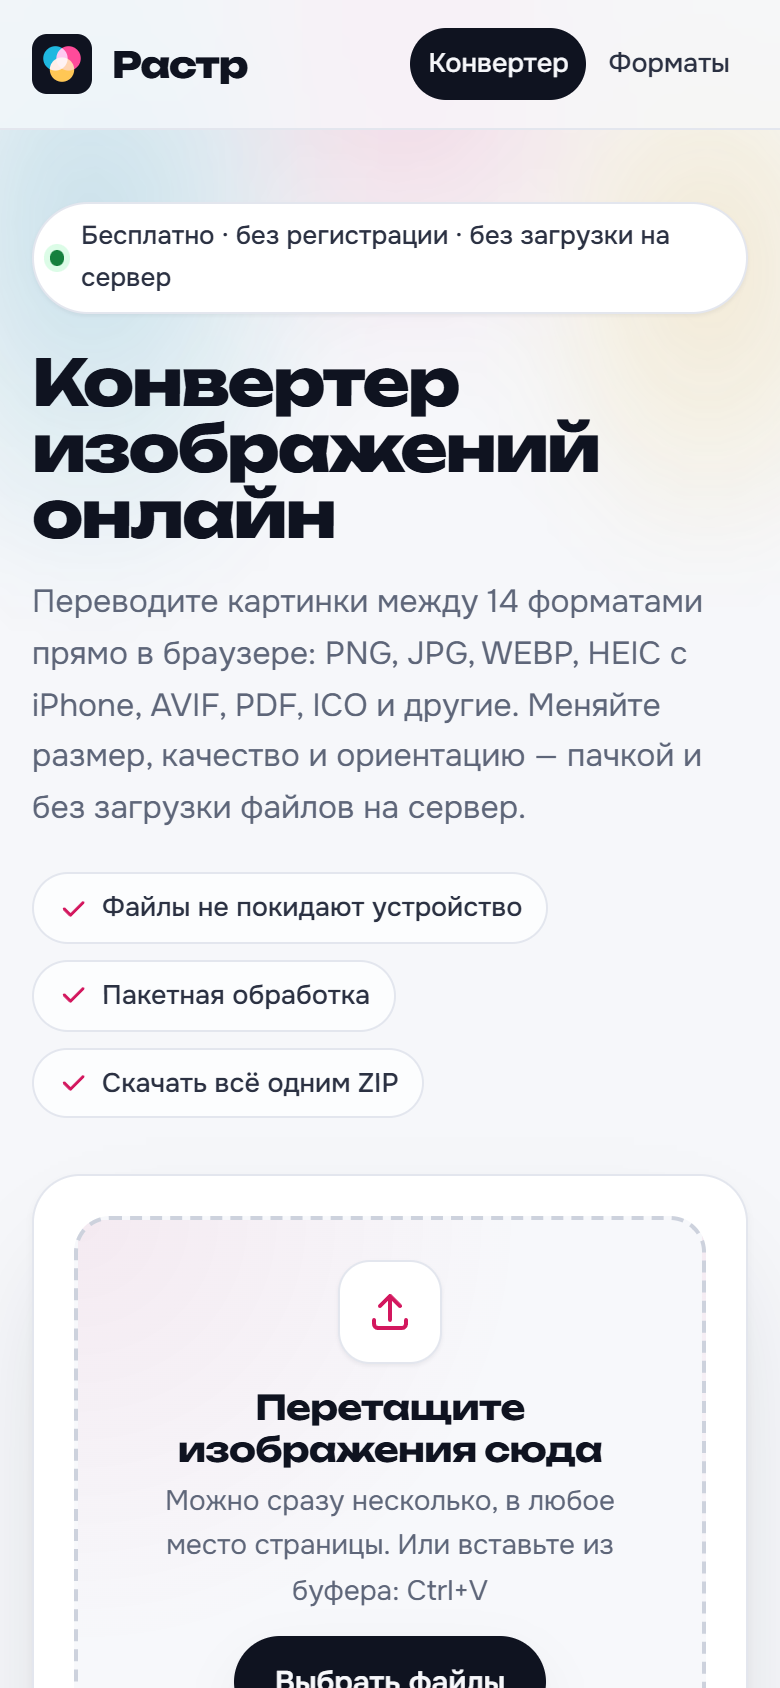
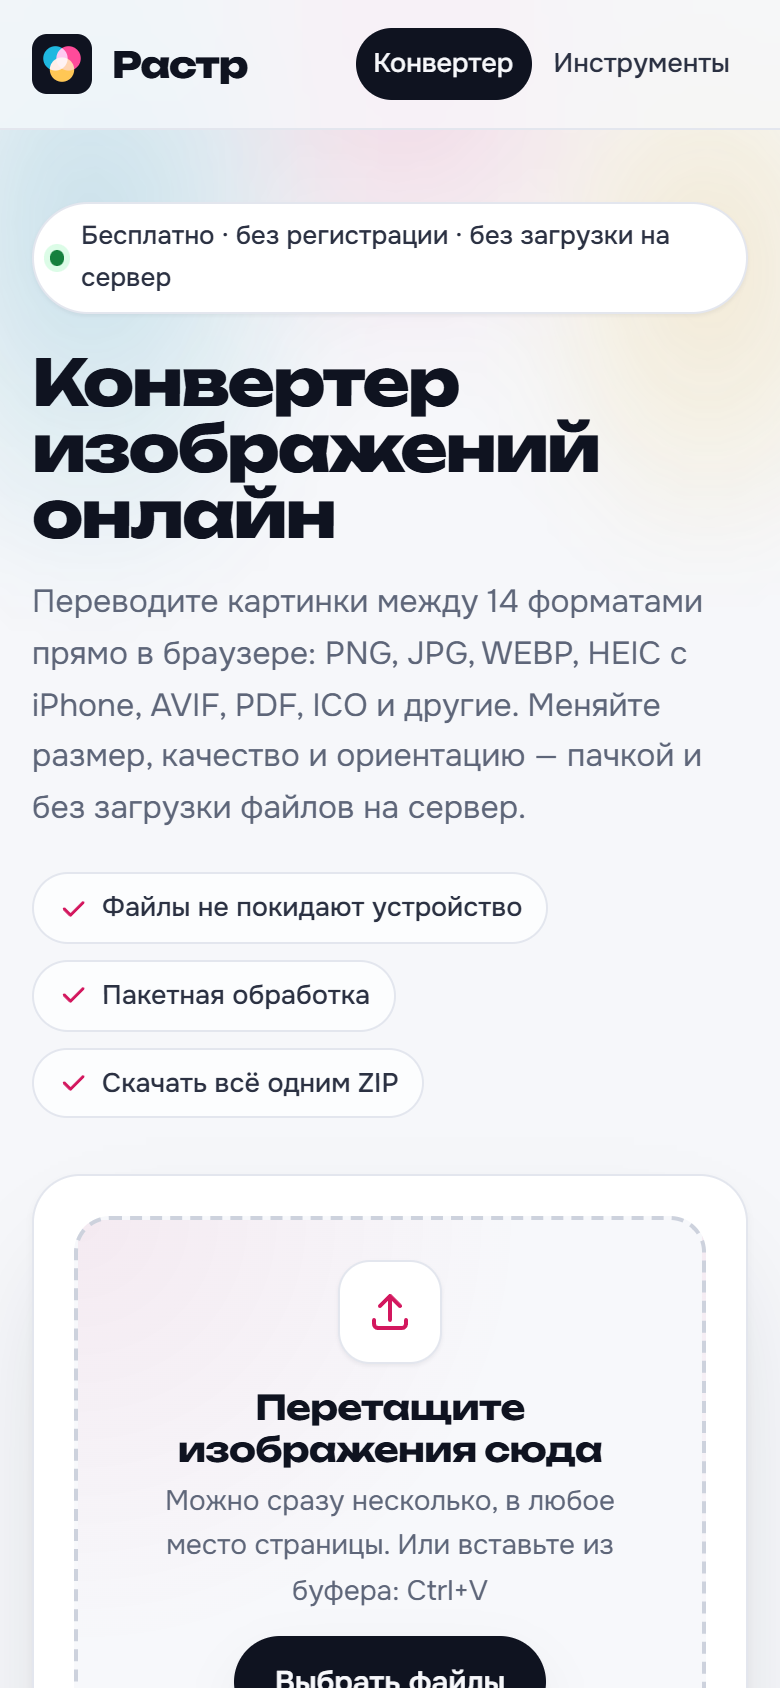
Раздел «Инструменты»: сжать фото, сжать до N КБ, размер фото
- Новая страница-раздел instrumenty с карточками инструментов, таблицей
  «какой инструмент выбрать», FAQ и разметкой ItemList; пункт меню,
  колонка в подвале, хлебные крошки Главная › Инструменты › …
- Главная: отдельные блоки «Инструменты для фото» и «Конвертеры форматов»
- Инструменты открываются как самостоятельные сервисы: только подходящие
  форматы, кнопка по действию, свои настройки первыми; в «Сжать до N КБ»
  лимит включён всегда, в «Размере фото» — формат «Как было»
- На страницах инструментов блоки «Другие инструменты» и конвертеры
- Тесты: формат «Как было», режим инструментов, порядок настроек

Changed region(s): [[0.4615, 0.0, 0.8923, 0.0616]]

diff --git a/src/assets/app.js b/src/assets/app.js
@@ -55,7 +55,21 @@
   const fmts = R.formats();
   $('in-list').textContent = 'Принимаем: ' + R.inputs.join(' · ');
 
-  $('fmts').innerHTML = fmts.map(f =>
+  // «Как было»: каждый файл сохраняется в формате исходника (инструмент «Размер фото» и др.)
+  const KEEP = { id: 'keep', label: 'Как было', note: 'Формат исходника', lossy: false, alpha: true, options: ['quality'],
+    use: 'Каждый файл сохранится в своём формате: JPG останется JPG, PNG — PNG', supported: () => true };
+  const SOURCE_FORMAT = { PNG: 'png', JPEG: 'jpeg', WEBP: 'webp', AVIF: 'avif', GIF: 'gif', BMP: 'bmp', TIFF: 'tiff', TGA: 'tga', ICO: 'png', SVG: 'png', HEIC: 'jpeg', PNM: 'png' };
+  function keepFormat(item) {
+    const f = R.format(SOURCE_FORMAT[item.decoded.format] || 'png');
+    return f.supported() ? f : R.format(f.id === 'avif' ? 'webp' : 'png');
+  }
+  const fmtById = id => id === 'keep' ? KEEP : R.format(id);
+  // инструменты показывают только форматы, которые подходят к задаче
+  const shown = preset.formats ? preset.formats.map(fmtById).filter(Boolean) : fmts;
+  const runLabel = f => preset.runLabel || 'Конвертировать в ' + f.label;
+  if (preset.tool) $('app').classList.add('tool-' + preset.tool);
+
+  $('fmts').innerHTML = shown.map(f =>
     '<button type="button" class="fmt" data-id="' + f.id + '" aria-pressed="false"' +
     (f.supported() ? '' : ' disabled title="Этот браузер не умеет кодировать ' + f.label + '"') + '>' +
     '<span class="fmt-ext">' + f.label + '</span><span class="fmt-note">' + esc(f.note) + '</span>' +
@@ -72,14 +86,14 @@
   }
 
   function setFormat(id, remember) {
-    const f = R.format(id);
+    const f = fmtById(id);
     if (!f || !f.supported()) return false;
     state.format = id;
     document.querySelectorAll('.fmt').forEach(b => b.setAttribute('aria-pressed', b.dataset.id === id));
     if (refBody) refBody.querySelectorAll('tr').forEach(r => r.setAttribute('aria-selected', r.dataset.id === id));
     document.querySelectorAll('[data-opt]').forEach(s => { s.hidden = !f.options.includes(s.dataset.opt); });
     $('fmt-use').textContent = f.use + '.';
-    $('run').textContent = 'Конвертировать в ' + f.label;
+    $('run').textContent = runLabel(f);
     if (remember) { try { localStorage.setItem('rastr.format', id); } catch (e) {} }
     updateSummary();
     return true;
@@ -260,11 +274,11 @@
   /* ---------- convert ---------- */
   async function run() {
     if (state.busy) return;
-    const f = R.format(state.format), o = opts();
+    const f = fmtById(state.format), o = opts();
     const items = state.items.filter(i => i.decoded);
     if (!items.length) return;
     state.busy = true; updateSummary();
-    $('run').textContent = 'Конвертируем…';
+    $('run').textContent = preset.runLabel ? 'Обрабатываем…' : 'Конвертируем…';
     const single = f.id === 'pdf' && $('pdf-single').checked;
     const pages = [];
     let ok = 0;
@@ -273,15 +287,16 @@
       await new Promise(r => setTimeout(r, 16));
       try {
         const canvas = R.prepare(item.decoded, o);
+        const fi = f.id === 'keep' ? keepFormat(item) : f;
         if (single) { pages.push(canvas); item.status = 'ready'; }
         else {
           let blob, w = canvas.width, h = canvas.height, fit = null;
-          if (o.targetBytes && f.lossy) {
-            const r = await R.encodeToSize(canvas, f.id, o.targetBytes, o);
+          if (o.targetBytes && fi.lossy) {
+            const r = await R.encodeToSize(canvas, fi.id, o.targetBytes, o);
             blob = r.blob; w = r.width; h = r.height;
             fit = { limit: o.targetBytes, reached: r.reached, quality: r.quality, scaled: r.scaled };
-          } else blob = await R.encode(canvas, f.id, o);
-          item.result = { blob, name: R.outputName(item.name, f.id), width: w, height: h, format: f, fit };
+          } else blob = await R.encode(canvas, fi.id, o);
+          item.result = { blob, name: R.outputName(item.name, fi.id), width: w, height: h, format: fi, fit };
           item.status = 'done';
         }
         ok++;
@@ -297,10 +312,10 @@
         toast('Собран PDF на ' + pages.length + ' ' + plural(pages.length, 'страницу', 'страницы', 'страниц') + ' · ' + fmtSize(blob.size));
       } catch (err) { toast('PDF не собрался: ' + err.message); }
     } else if (ok) {
-      toast('Готово: ' + ok + ' ' + plural(ok, 'файл', 'файла', 'файлов') + ' в ' + f.label);
+      toast('Готово: ' + ok + ' ' + plural(ok, 'файл', 'файла', 'файлов') + (f.id === 'keep' ? '' : ' в ' + f.label));
     }
     state.busy = false;
-    $('run').textContent = 'Конвертировать в ' + f.label;
+    $('run').textContent = runLabel(f);
     updateSummary();
   }
   $('run').addEventListener('click', run);

diff --git a/src/assets/site.css b/src/assets/site.css
@@ -117,6 +117,7 @@ button { cursor: pointer; }
   .logo svg { width: 30px; height: 30px; }
 }
 /* на узких экранах «Инструкция» не помещается в шапку; она остаётся в подвале */
+@media (max-width: 640px) { .menu a.hide-sm { display: none; } }
 @media (max-width: 480px) { .menu a.hide-xs { display: none; } }
 
 /* ================= хлебные крошки ================= */
@@ -526,3 +527,31 @@ pre .s { color: #7FD8F0; }
 }
 .cookie-bar p { margin: 0; flex: 1 1 260px; color: var(--ink-2); }
 .cookie-bar .btn { flex: none; }
+
+/* ---------- инструменты: карточки ---------- */
+.tools { display: grid; grid-template-columns: repeat(auto-fit, minmax(240px, 1fr)); gap: 16px; list-style: none; padding: 0; margin: 0; }
+.tools a {
+  display: grid; gap: 6px; align-content: start; height: 100%; padding: 22px; border-radius: var(--r-lg);
+  background: var(--surface); border: 1px solid var(--line); color: var(--ink); text-decoration: none;
+  transition: border-color .15s, transform .15s, box-shadow .15s;
+}
+.tools a:hover { border-color: var(--accent); transform: translateY(-2px); box-shadow: var(--shadow); }
+.tools a[aria-current="page"] { border-color: var(--ink); }
+.tools b { font-family: var(--f-display); font-weight: 700; font-size: 18px; letter-spacing: -.02em; }
+.tools small { color: var(--muted); font-size: 14.5px; }
+.tools .tool-go { margin-top: 8px; font-size: 14px; font-weight: 600; color: var(--accent); }
+.tool-ic { width: 46px; height: 46px; border-radius: 14px; display: grid; place-items: center; margin-bottom: 6px; }
+.tool-ic svg { width: 22px; height: 22px; }
+.tools li:nth-child(3n+1) .tool-ic { background: color-mix(in srgb, var(--magenta) 14%, transparent); color: var(--magenta); }
+.tools li:nth-child(3n+2) .tool-ic { background: color-mix(in srgb, var(--cyan) 14%, transparent); color: var(--cyan); }
+.tools li:nth-child(3n+3) .tool-ic { background: color-mix(in srgb, var(--yellow) 20%, transparent); color: color-mix(in srgb, var(--yellow) 70%, var(--ink)); }
+
+/* ---------- инструменты: режим панели настроек ---------- */
+/* «Размер фото»: размер и поворот — первыми */
+.tool-resize #sec-size, .tool-resize #sec-rotate { order: -1; }
+/* «Сжать до N КБ»: лимит включён всегда, ползунок качества не нужен */
+.tool-target #sec-quality, .tool-target .target-toggle { display: none !important; }
+.tool-target #sec-target { order: -1; }
+.tool-target #sec-target .target { gap: 12px; }
+/* в инструментах форматов мало — кнопки в ряд */
+.app[class*="tool-"] .fmts { grid-template-columns: repeat(auto-fill, minmax(124px, 1fr)); }

diff --git a/README.md b/README.md
@@ -41,6 +41,10 @@
   </tr>
 </table>
 
+## Инструменты для фото
+
+Отдельный раздел `/instrumenty/`: **Сжать фото**, **Сжать до N КБ** и **Размер фото**. Каждый инструмент открывается как самостоятельный сервис: только подходящие форматы, кнопка по действию («Сжать фото», «Изменить размер»), свои настройки первыми. В «Размере фото» есть формат «Как было» — каждый файл остаётся в своём формате.
+
 ## Страницы под поиск
 
 Кроме главной, у сайта 14 посадочных страниц под частые запросы. На каждой свой текст, вопросы и ответы, а конвертер открывается уже настроенным под задачу.
@@ -64,6 +68,7 @@
 | `/png-v-ico/` | png в ico, создать favicon |
 | `/svg-v-png/` | svg в png |
 | `/tiff-v-jpg/` | tiff в jpg |
+| `/instrumenty/` | инструменты для фото (раздел со всеми инструментами) |
 | `/szhat-foto/` | сжать фото |
 | `/izmenit-razmer-foto/` | изменить размер фото |
 | `/formaty/` | форматы изображений |
